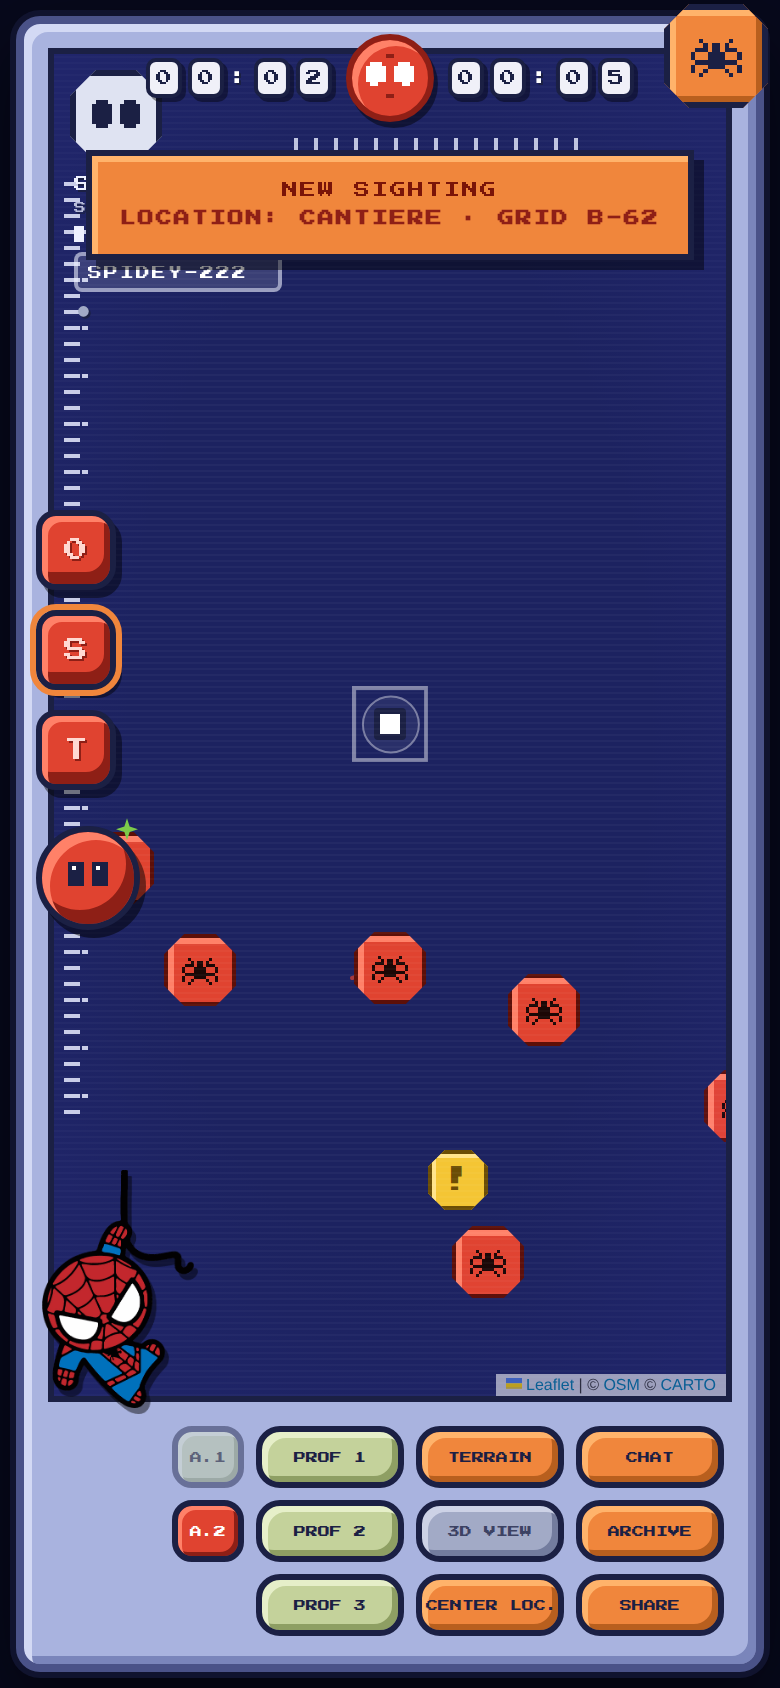
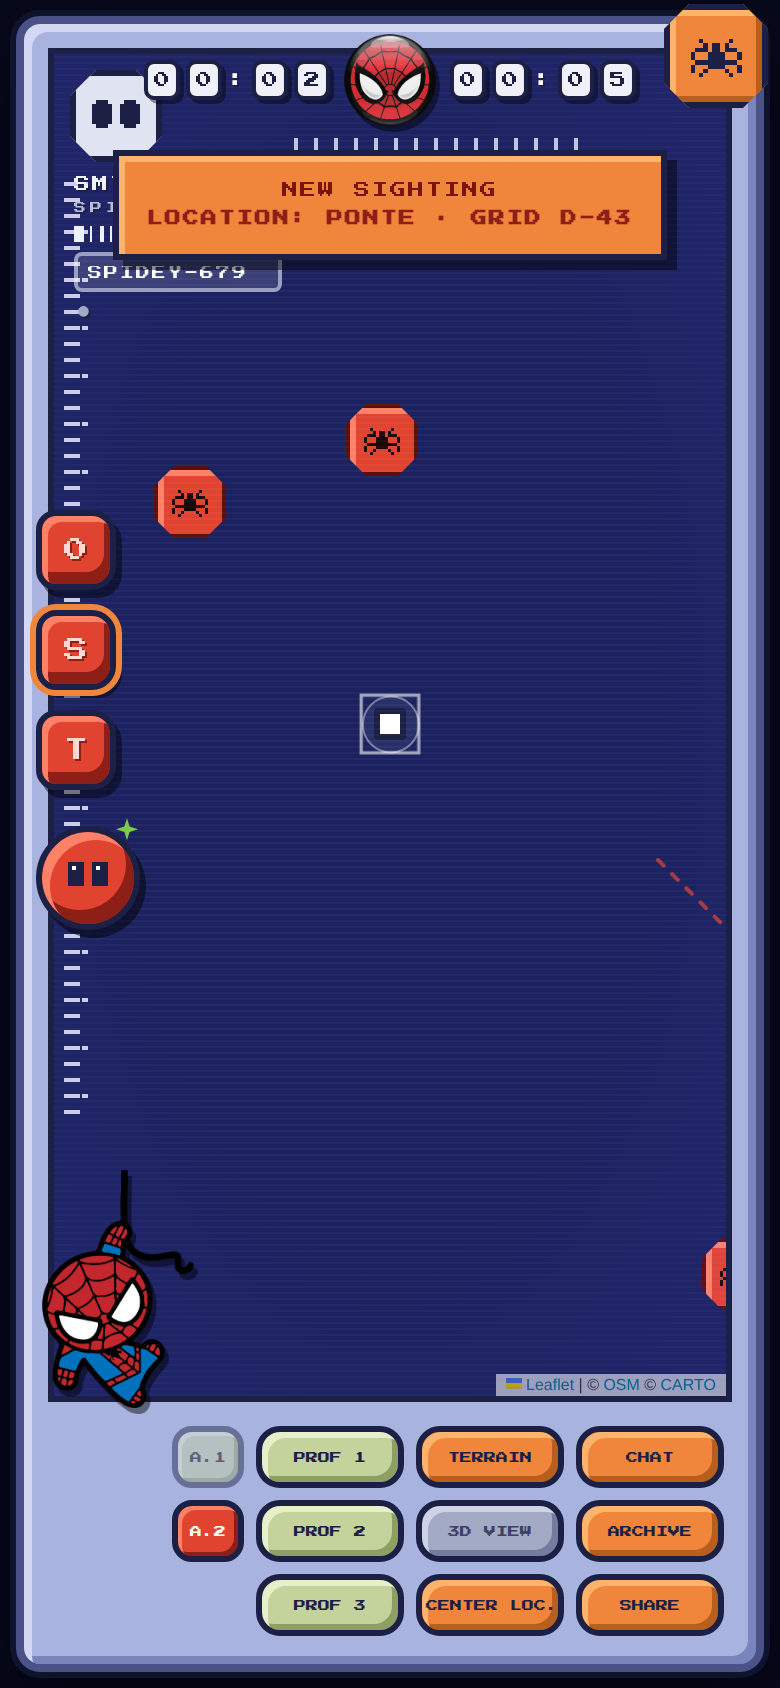
Use uploaded mask.png as the top-center mask button
Circular badge cut from the uploaded artwork, downscaled and
quantized to 11 KB in assets/mask.png; replaces the drawn red mask
(still recenters the map on tap). Cache bumped.

Claude-Session: https://claude.ai/code/session_01SNPYMxKbRTqF7mdzkvdENQ

diff --git a/index.html b/index.html
@@ -152,12 +152,14 @@
   }
   .timer .sep{ color:#fff; font-size:9px; text-shadow:1px 1px 0 var(--ink); }
   .maskred{
-    width:52px; height:52px; border-radius:50%; padding:0; flex:0 0 auto;
-    background:var(--red); border:3px solid var(--red-lo);
-    box-shadow: inset 3px 3px 0 var(--red-hi), 2px 3px 0 rgba(0,0,0,.45);
+    width:56px; height:56px; border-radius:50%; padding:0; flex:0 0 auto;
+    background:none; border:none;
     display:grid; place-items:center;
   }
-  .maskred svg{ width:38px; height:38px; }
+  .maskred img{
+    width:56px; height:56px; pointer-events:none;
+    filter:drop-shadow(2px 3px 0 rgba(0,0,0,.45));
+  }
   .maskred:active{ transform:translateY(2px); }
 
   /* banner NEW SIGHTING centrato sotto la maschera */
@@ -356,8 +358,8 @@
 
   @media (max-width:420px){
     .timer .d{ font-size:8px; min-width:15px; padding:4px 3px; }
-    .maskred{ width:44px; height:44px; }
-    .maskred svg{ width:32px; height:32px; }
+    .maskred{ width:46px; height:46px; }
+    .maskred img{ width:46px; height:46px; }
     .badge{ width:52px; height:52px; top:-10px; right:-6px; }
     .badge svg{ width:34px; height:34px; }
     .key{ width:40px; height:40px; font-size:12px; }
@@ -399,7 +401,7 @@
 
     <div class="topcenter">
       <div class="timer" id="timer1"><span class="d">0</span><span class="d">0</span><span class="sep">:</span><span class="d">0</span><span class="d">0</span></div>
-      <button class="maskred" id="maskRed" aria-label="Centra posizione"></button>
+      <button class="maskred" id="maskRed" aria-label="Centra posizione"><img src="assets/mask.png" alt=""></button>
       <div class="timer" id="timer2"><span class="d">0</span><span class="d">0</span><span class="sep">:</span><span class="d">0</span><span class="d">0</span></div>
     </div>
 
@@ -487,18 +489,10 @@ const MASKW = `<svg viewBox="0 0 16 16" xmlns="http://www.w3.org/2000/svg" shape
 <rect x="2" y="5" width="5" height="5"/><rect x="3" y="4" width="3" height="1"/><rect x="3" y="10" width="3" height="1"/>
 <rect x="9" y="5" width="5" height="5"/><rect x="10" y="4" width="3" height="1"/><rect x="10" y="10" width="3" height="1"/>
 </g></svg>`;
-/* maschera rossa di Spidey: occhi bianchi a goccia */
-const MASKR = `<svg viewBox="0 0 16 16" xmlns="http://www.w3.org/2000/svg" shape-rendering="crispEdges">
-<g fill="#fff">
-<rect x="2" y="5" width="5" height="4"/><rect x="3" y="4" width="3" height="1"/><rect x="3" y="9" width="2" height="1"/>
-<rect x="9" y="5" width="5" height="4"/><rect x="10" y="4" width="3" height="1"/><rect x="11" y="9" width="2" height="1"/>
-</g>
-<g fill="#8E1F16"><rect x="7" y="2" width="2" height="1"/><rect x="7" y="12" width="2" height="1"/></g></svg>`;
 document.getElementById('logoTop').innerHTML = SPIDER('#1B2044');
 document.querySelector('.loader .lbadge').innerHTML = SPIDER('#1B2044');
 document.getElementById('bigEye').innerHTML = EYES;
 document.getElementById('maskWhite').innerHTML = MASKW;
-document.getElementById('maskRed').innerHTML = MASKR;
 
 /* ---------- stato ---------- */
 const S = {

diff --git a/sw.js b/sw.js
@@ -1,10 +1,11 @@
-const CACHE = 'smt1-v5';
+const CACHE = 'smt1-v6';
 const SHELL = [
   '.',
   'index.html',
   'manifest.webmanifest',
   'icon.svg',
   'assets/spidey.png',
+  'assets/mask.png',
   'vendor/leaflet/leaflet.css',
   'vendor/leaflet/leaflet.js',
   'vendor/mqtt/mqtt.min.js',
